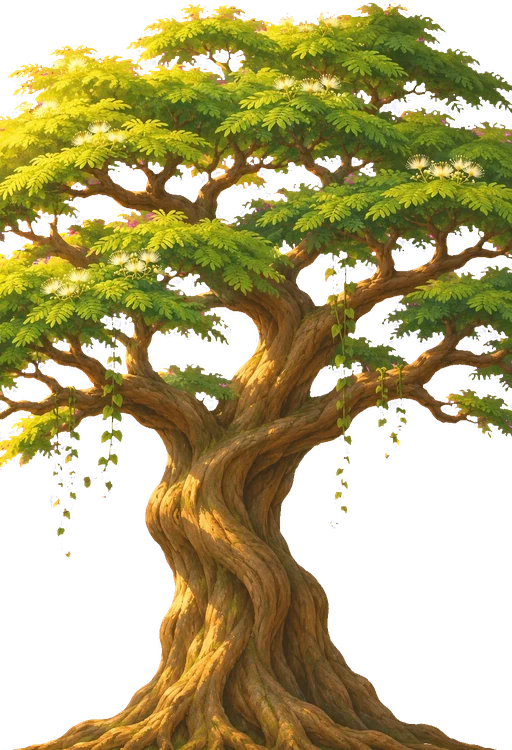
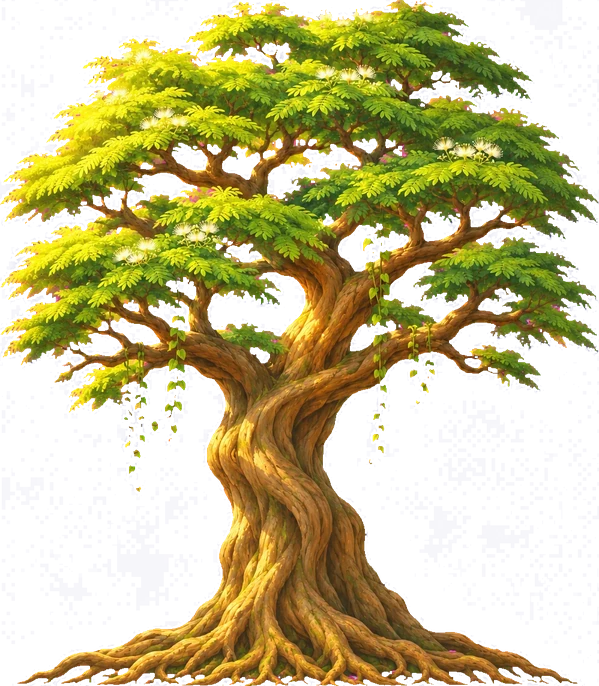
Replace the cut-off town tree with the full painted tree
The great tree's art ran past its canvas, leaving a hard vertical edge
in town. The new standalone tree is scaled a little larger and shifted
left so its canopy tucks behind the stall roof. kit_art.py now trims
pieces to solid alpha, so faint stray pixels at the canvas edge no
longer inflate a piece to its full canvas size.

diff --git a/shared/town-layout.js b/shared/town-layout.js
@@ -14,7 +14,7 @@ export const TOWN_GROUND = 600;
 
 // Width and height are the keyed piece sizes (public/assets/town-kit/kit.json).
 export const TOWN_PIECES = {
-  tree: { w: 512, h: 750, ledges: [] },
+  tree: { w: 599, h: 686, ledges: [] },
   stall: { w: 369, h: 550, ledges: [] },
   shop: {
     w: 521,
@@ -54,7 +54,7 @@ export const TOWN_PIECES = {
 
 // Left to right; x is where each piece's left edge stands.
 export const TOWN_LAYOUT = [
-  { piece: "tree", x: 0 },
+  { piece: "tree", x: -40 }, // canopy tucks behind the stall roof
   { piece: "stall", x: 512 },
   { piece: "shop", x: 881 },
   { piece: "stairs", x: 1402 },

diff --git a/public/game.js b/public/game.js
@@ -1167,7 +1167,7 @@ class Adventure extends Phaser.Scene {
   preload() {
     queueSpriteSets(this);
     // Town kit: pieces, props, animated props and far layers (tools/town-kit).
-    const kit = (key) => `/assets/town-kit/${key}.webp?v=6`;
+    const kit = (key) => `/assets/town-kit/${key}.webp?v=7`;
     for (const piece of new Set(TOWN_LAYOUT.map((p) => p.piece)))
       this.load.image(`town-piece-${piece}`, kit(`piece-${piece}`));
     for (const key of new Set(TOWN_PROPS.map((p) => p.key)))

diff --git a/public/index.html b/public/index.html
@@ -338,6 +338,6 @@
     <div id="toast" role="status"></div>
     <script src="/vendor/phaser.min.js"></script>
     <script src="/socket.io/socket.io.js"></script>
-    <script type="module" src="/game.js?v=0.21.0"></script>
+    <script type="module" src="/game.js?v=0.21.1"></script>
   </body>
 </html>

diff --git a/tools/town-kit/kit_art.py b/tools/town-kit/kit_art.py
@@ -32,7 +32,7 @@ SRC = Path(__file__).parent / "source"
 OUT = ROOT / "public" / "assets" / "town-kit"
 # Scale from the painting to world px (old-town proportions: doors ~ 90 px).
 PIECES = {"stall": 0.36, "shop": 0.42, "smithy": 0.46, "stairs": 0.42,
-          "tower": 0.42, "tree": 0.5, "cavegate": 0.42}
+          "tower": 0.42, "tree": 0.6, "cavegate": 0.42}
 PROP_SCALE = {"props-ground": 0.34, "props-hanging": 0.3, "props-foliage": 0.42}
 # Pieces with no real pink near their edges: also turn pink rim light green.
 RIM_FIX = {"tree"}
@@ -86,7 +86,9 @@ def main():
     report = {}
     for name, k in PIECES.items():
         im = keyed(name)
-        im = im.crop(im.getchannel("A").getbbox())
+        # Trim to solid art: stray faint pixels at the edges must not count.
+        solid = im.getchannel("A").point(lambda v: 255 if v > 40 else 0)
+        im = im.crop(solid.getbbox())
         report[f"piece-{name}"] = {"src": im.size, "out": save(im, f"piece-{name}", k), "scale": k}
     for sheet, k in PROP_SCALE.items():
         im = keyed(sheet)
